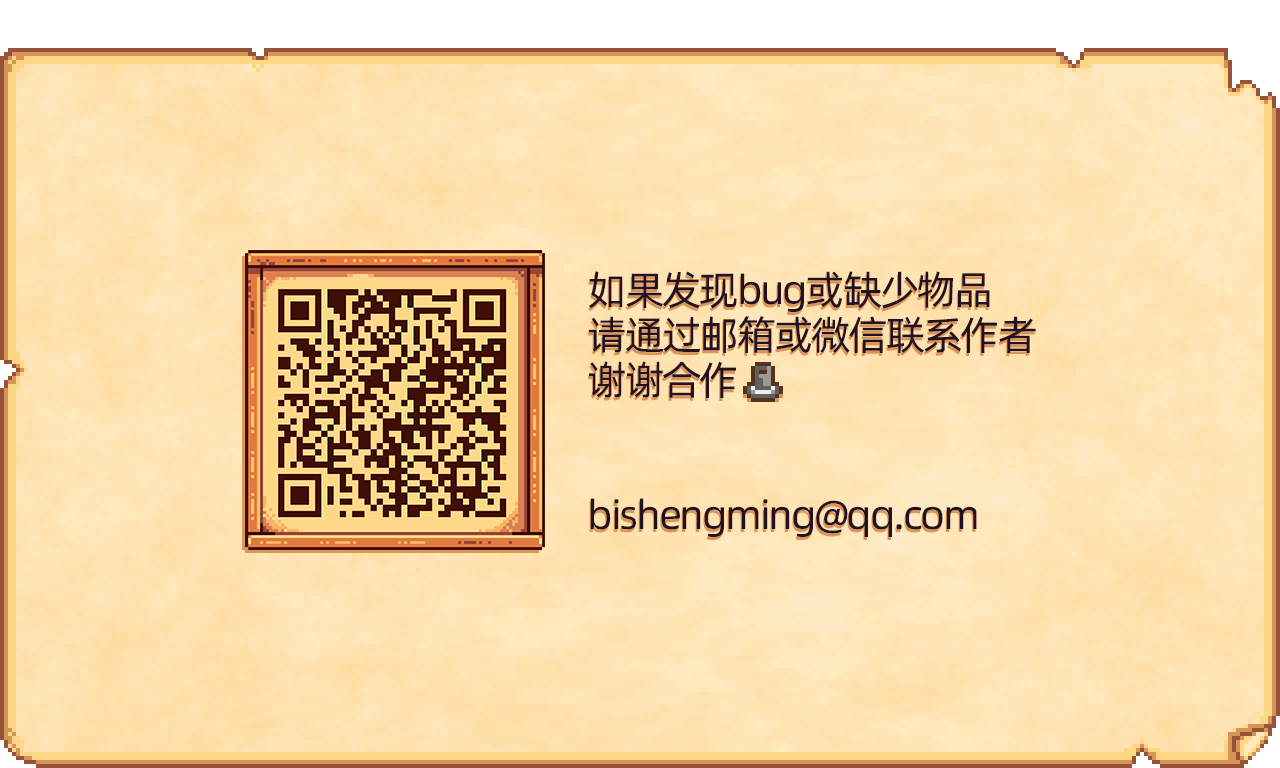
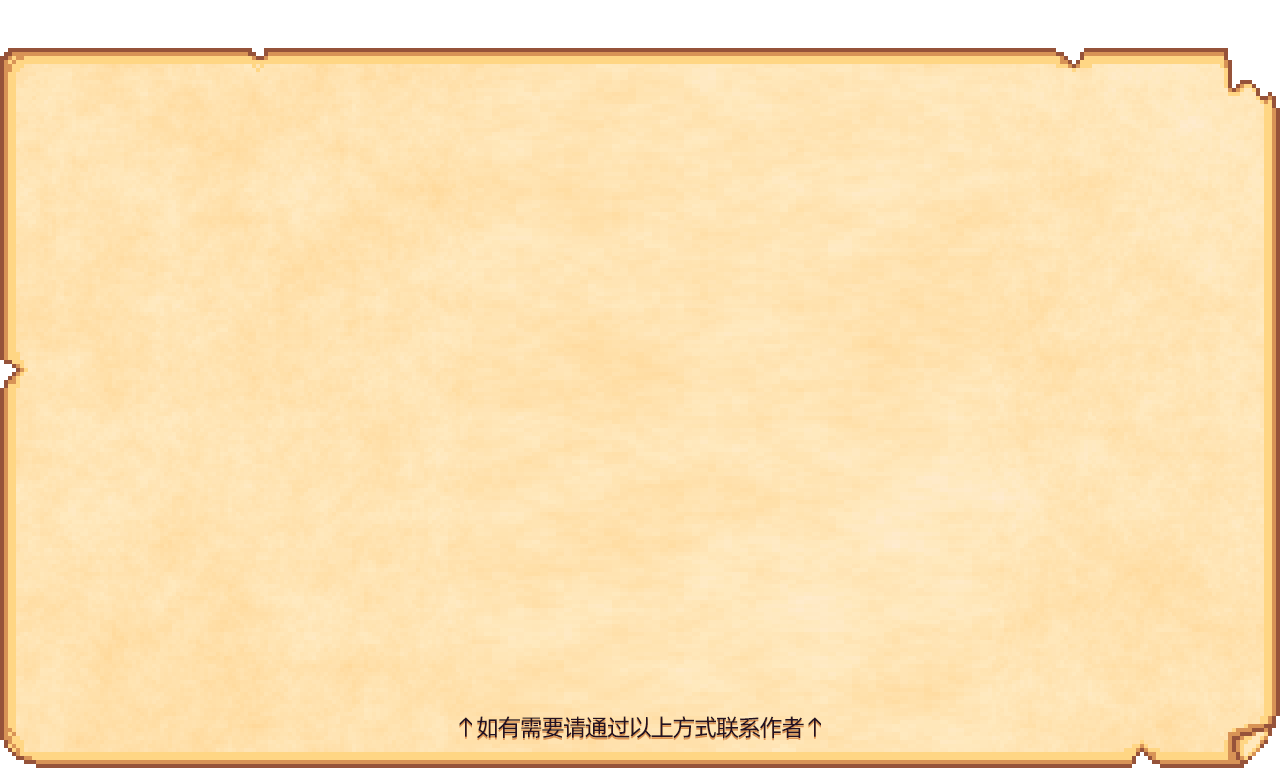
1

Changed region(s): [[0.1875, 0.3125, 0.8125, 0.7188], [0.3438, 0.9062, 0.6562, 0.9688]]

diff --git a/Valley.js b/Valley.js
@@ -2128,7 +2128,7 @@ function Statistics_add_1_add(e){//统计页1
 	Statistics_text.appendChild(div1).className = "Statistics-text-1";
 	Statistics_text.appendChild(div2).className = "Statistics-text-2";
 }
-if (/(iPhone|iPod|iOS|Android)/i.test(navigator.userAgent)) {
+if (/Android|webOS|iPhone|iPod|BlackBerry/i.test(navigator.userAgent)) {
 	document.getElementById("warning").style.display = "block"
 	document.getElementById("Choice-1").style.display = "none"
 
@@ -2798,4 +2798,18 @@ function save_del() {
 if (localStorage.Explain_save == 0) {
 	console.log("非首次开启页面，关闭教程提示。");
 	document.getElementById("Course").style.display = "none";
+}
+function open_video() {
+	window.open("https://www.bilibili.com/video/BV1Pf4y1T7hx/")
+}
+function open_tieba() {
+	window.open("https://tieba.baidu.com/p/7632638263?pid=142277181706&cid=0&red_tag=0896232900#142277181706")
+}
+function copy_mail() {
+	var e = document.getElementById("mail");
+	e.select(); // 选择对象
+	document.execCommand("Copy"); // 执行浏览器复制命令
+	document.getElementById("save-Tips").style.display = "block";
+	document.getElementById("save-Tips").src = "imges/Choice/copy.png";
+	setTimeout(function() {document.getElementById("save-Tips").style.display = "none";}, 1000);
 }

diff --git a/index.html b/index.html
@@ -8,6 +8,7 @@
 	<link rel="icon" href="favicon.ico" type="image/x-icon"/>
 </head>
 <body ondragstart="return false" id="body-1">
+	<input id="mail" value="935945334@qq.com">
 	<div id="f11">
 		<img src="imges/Choice/F11.png" alt="">
 	</div>
@@ -62,11 +63,16 @@
 		<div id="Course_content_3" class="Course_content">
 			<img src="imges/Explain/Explain-3.png" alt="">
 		</div>
-		<div id="Course_content_4" class="Course_content">
+		<div id="Course_content_4" class="Course_content" onclick="open_video();">
 			<img src="imges/Explain/Explain-4.png" alt="">
 		</div>
 	</div>
 	<div id="author">
+		<div id="tab">
+			<img src="imges/Explain/tab-1.png" alt="" class="tab-w" onclick="open_video();">
+			<img src="imges/Explain/tab-2.png" alt="" class="tab-w" onclick="open_tieba();">
+			<img src="imges/Explain/tab-3.png" alt="" class="tab-w" onclick="copy_mail();">
+		</div>
 		<img src="imges/Explain/X.png" alt="" class="Course_content_X" onclick="author_X();">
 		<img src="imges/Explain/author.png" alt="">
 	</div>

diff --git a/Valley.css b/Valley.css
@@ -844,3 +844,26 @@ textarea::-webkit-input-placeholder {
 	pointer-events: none;
 	display: none;
 }
+#tab{
+	width: 672px;
+	height: 304px;
+	position: absolute;
+	left: calc(50% - 336px);
+	top: 30%;
+	display: -webkit-flex;
+	display: flex;
+	-webkit-justify-content: space-between;
+	justify-content: space-between;
+	-webkit-flex-direction: column;
+	flex-direction: column;
+}
+.tab-w{
+	width: 672px;
+	height: 68px;
+
+}
+#mail{
+	position: absolute;
+	left: -100vw;
+	opacity: 0;
+}
